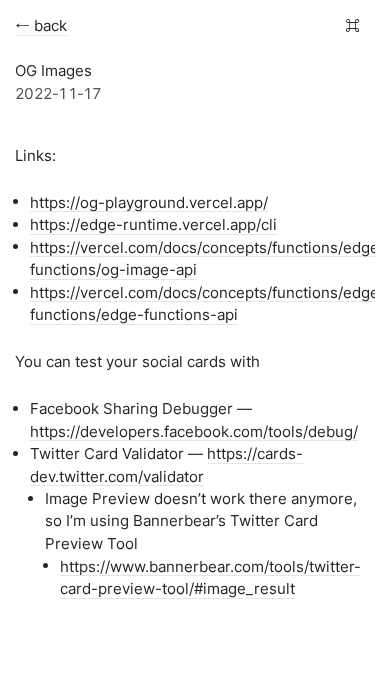
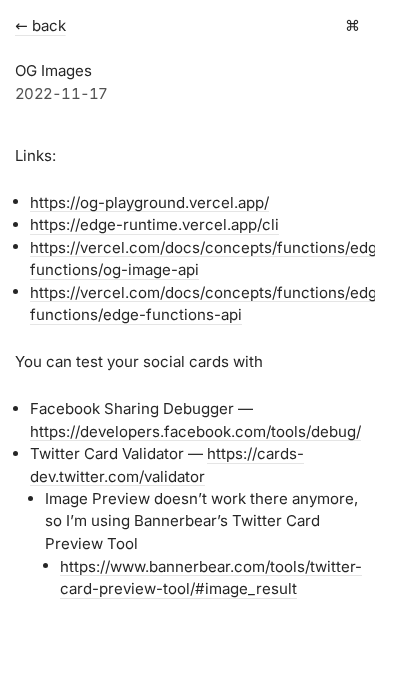
Address review: restore explicit font loads, block-style with mapping, og-images mobile baseline

diff --git a/e2e/visual-regression.spec.ts b/e2e/visual-regression.spec.ts
@@ -43,10 +43,10 @@ test.describe("Visual regression", () => {
 /**
  * Settle the page so a fullPage screenshot has a stable height across runs:
  * scroll the full height to trigger lazy images, then wait for every image to
- * decode and the self-hosted fonts to load. Deliberately no remote webfont —
- * the site ships Inter + Brygada and falls back to system mono for code, so a
- * network font request would only add non-determinism (and per-platform
- * snapshots already cover the system-mono difference).
+ * decode and the fonts to load. We force-load the specific faces the
+ * screenshots depend on (fonts.ready alone only covers faces something has
+ * already started loading), but inject no remote stylesheet — a network font
+ * request would only add non-determinism.
  */
 async function ensurePageStable(page: Page) {
   await page.evaluate(async () => {
@@ -70,6 +70,14 @@ async function ensurePageStable(page: Page) {
 
   await page.evaluate(async () => {
     await document.fonts.ready;
+    await Promise.all(
+      [
+        document.fonts.load('16px "Inter"'),
+        document.fonts.load('16px "Brygada 1918"'),
+        document.fonts.load('italic 16px "Brygada 1918"'),
+        document.fonts.load('16px "Fira Code"'),
+      ].map((p) => p.catch(() => null)),
+    );
     await Promise.all(
       Array.from(document.images).map((img) =>
         img.complete && img.naturalWidth > 0